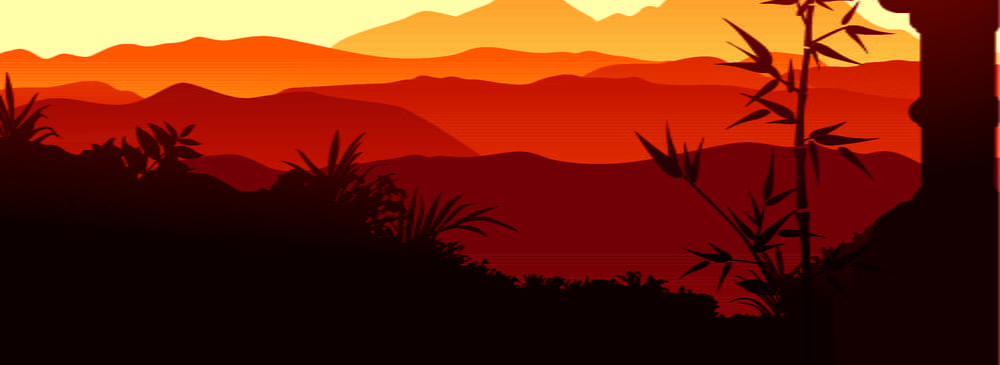
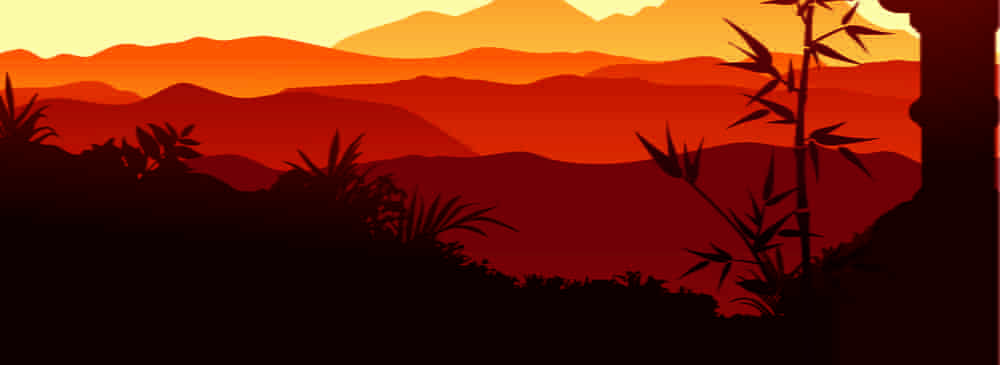
perf: downsample lantern jpg to 20 mozjpeg, use backdrop-filter

diff --git a/src/css/application.css b/src/css/application.css
@@ -85,3 +85,16 @@ background-image: url('../images/lantern-2000w.jpg');
         margin-top: 10px;
     }
 }
+
+/* jumbotron backdrop blur effect */
+
+.jumbotron-backdrop {
+    position: absolute;
+    left: 0;
+    right: 0;
+    bottom: 0;
+    top: 0;
+    -webkit-backdrop-filter: blur(3px) saturate(110%) brightness(90%);
+    backdrop-filter: blur(3px) saturate(110%) brightness(90%);
+    pointer-events: none;
+}

diff --git a/src/index.html b/src/index.html
@@ -123,6 +123,7 @@
 <!-- Subhead
 ================================================== -->
 <header class="jumbotron subhead" id="overview">
+  <div class="jumbotron-backdrop"></div>
   <div class="container">
     <h1>Japanese Name Converter</h1>
     <p class="lead">Your name in Japanese katakana.</p>
